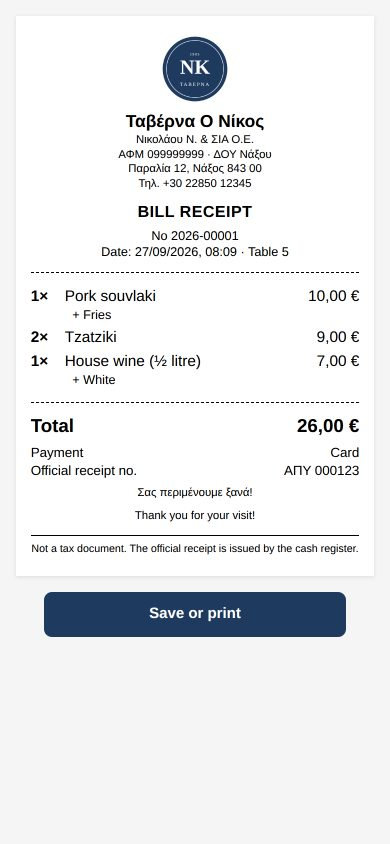
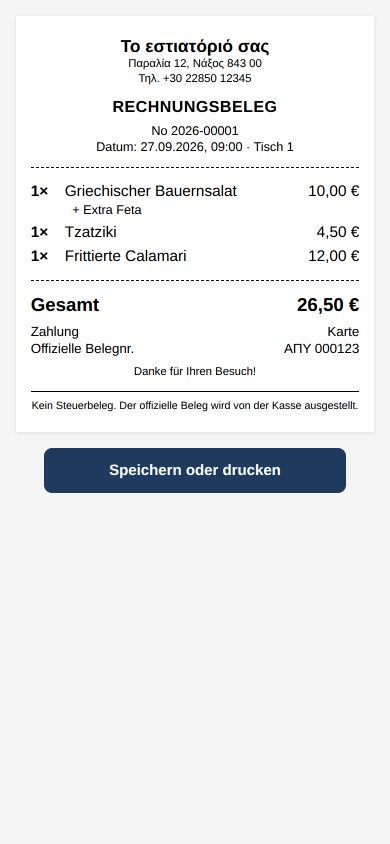
Use a neutral demo venue in the presentation
Rename the demo venue to "Το εστιατόριό σας" and regenerate the landing
page screenshots without the old demo name, logo or business details.

Claude-Session: https://claude.ai/code/session_01Mma63c25PKtndWzMpRnJ6x

diff --git a/public/js/admin.js b/public/js/admin.js
@@ -545,7 +545,7 @@ function renderStore() {
     <h3>Στοιχεία απόδειξης</h3>
     <p class="muted small" style="margin-top:0">Τυπώνονται στην κεφαλίδα της απόδειξης λογαριασμού.</p>
     <div class="two">
-      <label class="field"><span>Επωνυμία επιχείρησης</span><input class="input" id="legalName" value="${esc(r.legalName || '')}" placeholder="π.χ. Νικολάου Ν. & ΣΙΑ Ο.Ε."></label>
+      <label class="field"><span>Επωνυμία επιχείρησης</span><input class="input" id="legalName" value="${esc(r.legalName || '')}" placeholder="π.χ. Παπαδόπουλος Γ. & ΣΙΑ Ο.Ε."></label>
       <label class="field"><span>ΑΦΜ</span><input class="input" id="vatNumber" value="${esc(r.vatNumber || '')}" inputmode="numeric"></label>
       <label class="field"><span>ΔΟΥ</span><input class="input" id="taxOffice" value="${esc(r.taxOffice || '')}"></label>
       <label class="field"><span>Κείμενο στο τέλος της απόδειξης</span><input class="input" id="receiptFooter" value="${esc(r.receiptFooter || '')}" placeholder="π.χ. Σας περιμένουμε ξανά!"></label>

diff --git a/server/seed.js b/server/seed.js
@@ -103,7 +103,7 @@ const OPTIONS = {
 };
 
 export const DEFAULT_RESTAURANT = {
-  name: 'Ταβέρνα Ο Νίκος',
+  name: 'Το εστιατόριό σας',
   description: t(
     'Παραδοσιακή ελληνική κουζίνα δίπλα στη θάλασσα, από το 1985.',
     'Traditional Greek cuisine by the sea, since 1985.',
